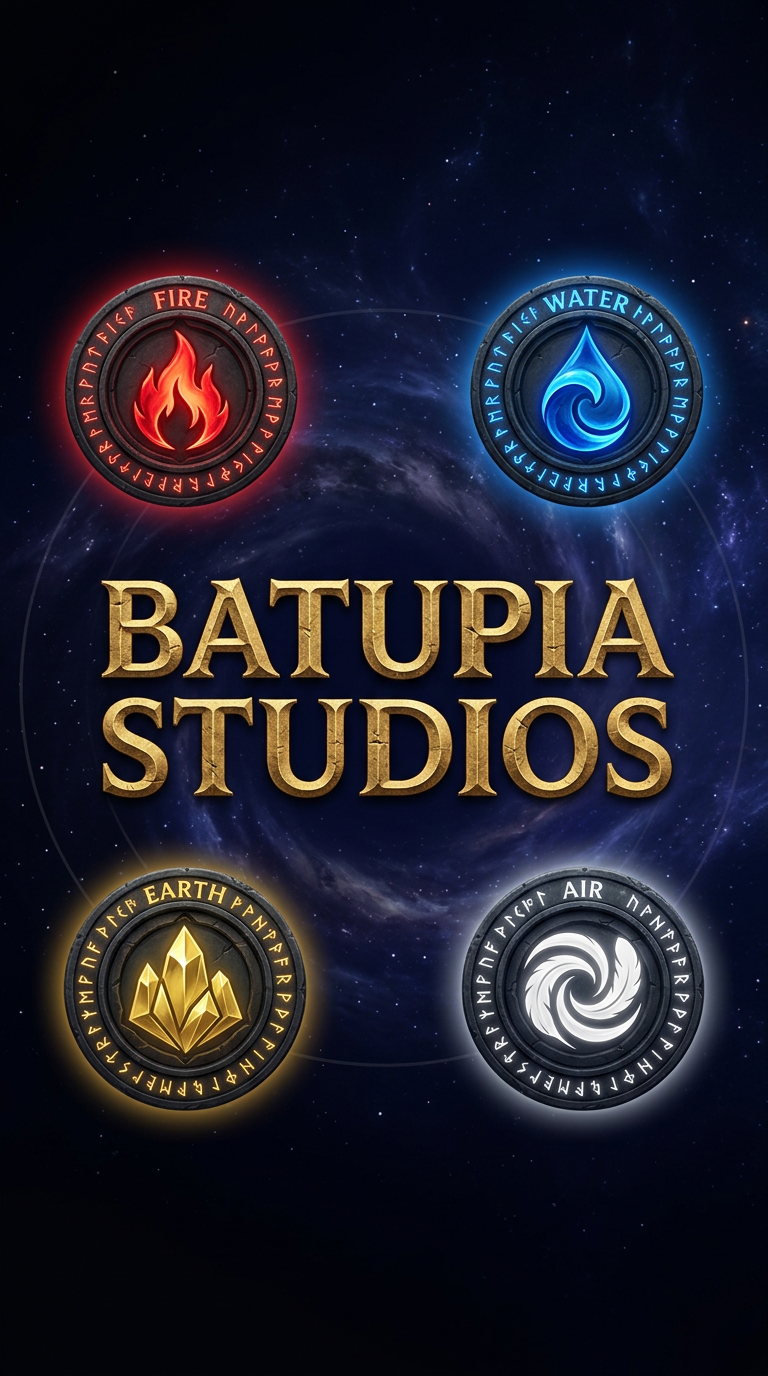
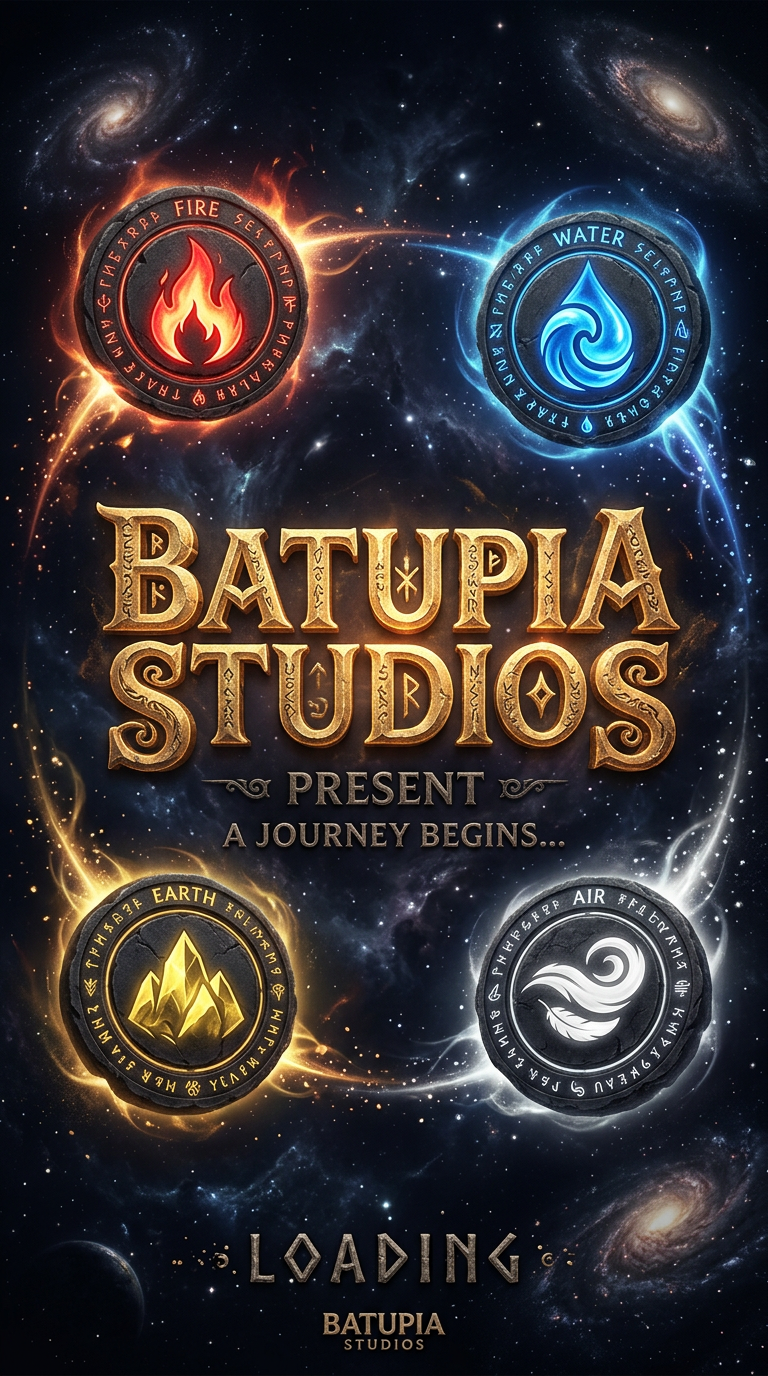
v8.3: BATUPIA intro v3 — detaylı + doğru renkler
🎨 v3: Ultra detaylı mimari + 4 element seal
  🔥 Kırmızı | 💧 Mavi | 🌿 Sarı | 🌬 Beyaz
📦 v2 geri yüklendi (kayıp YOK)

PATRON BT v8.3

diff --git a/index.html b/index.html
@@ -2054,9 +2054,9 @@
 
   <!-- ========== 0. BATUPIA STUDIOS INTRO (SAHNE -1) — STONEBREAKING EVRENİ ========== -->
     <section id="screen-studio-intro" class="screen active" aria-label="STONEBREAKING Yükleniyor">
-    <img id="loading-scene-bg" src="06_GRAFIK/batupia_intro_final_v2.png?v=820" alt="" />
+    <img id="loading-scene-bg" src="06_GRAFIK/batupia_intro_final_v3.png?v=830" alt="" />
     <div id="loading-vignette" aria-hidden="true"></div>
-    <img id="loading-batupia-logo" src="06_GRAFIK/batupia_intro_final_v2.png?v=820" style="display:none!important" alt="BATUPIA Studios" />
+    <img id="loading-batupia-logo" src="06_GRAFIK/batupia_intro_final_v3.png?v=830" style="display:none!important" alt="BATUPIA Studios" />
     <div id="loading-ui">
       <div id="loading-track">
         <div id="loading-bar"></div>
